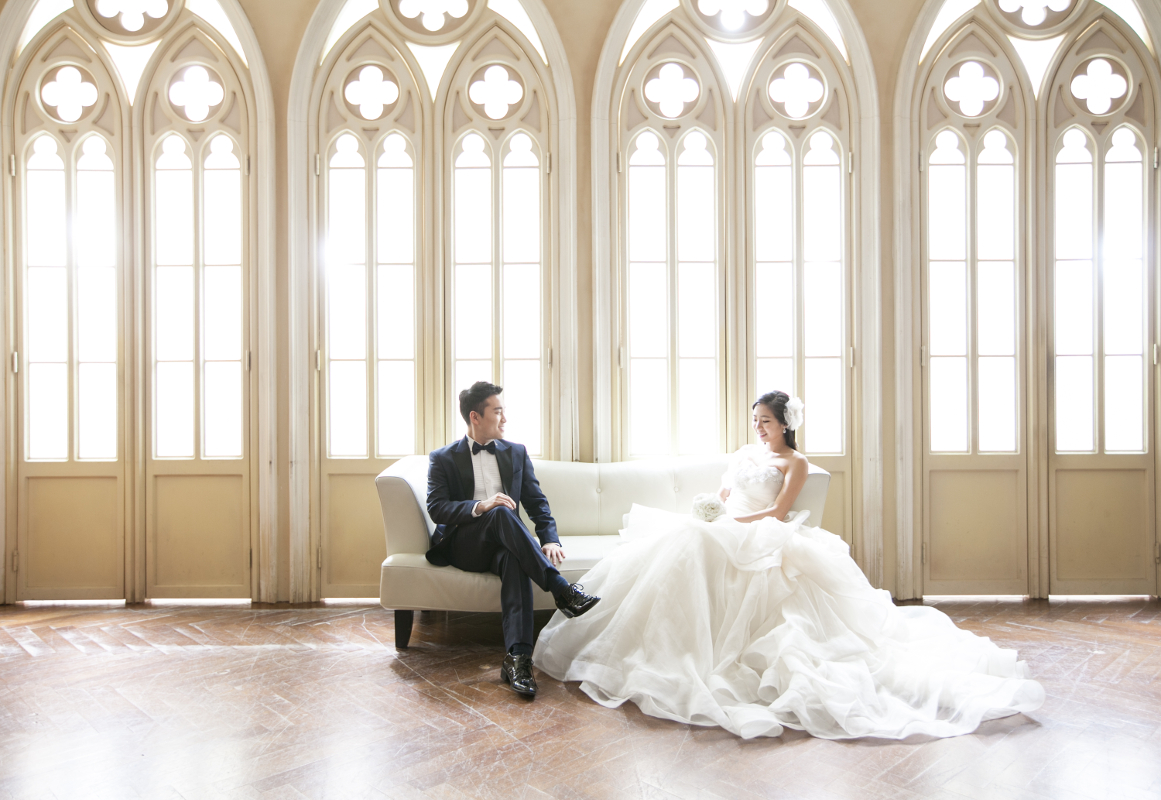
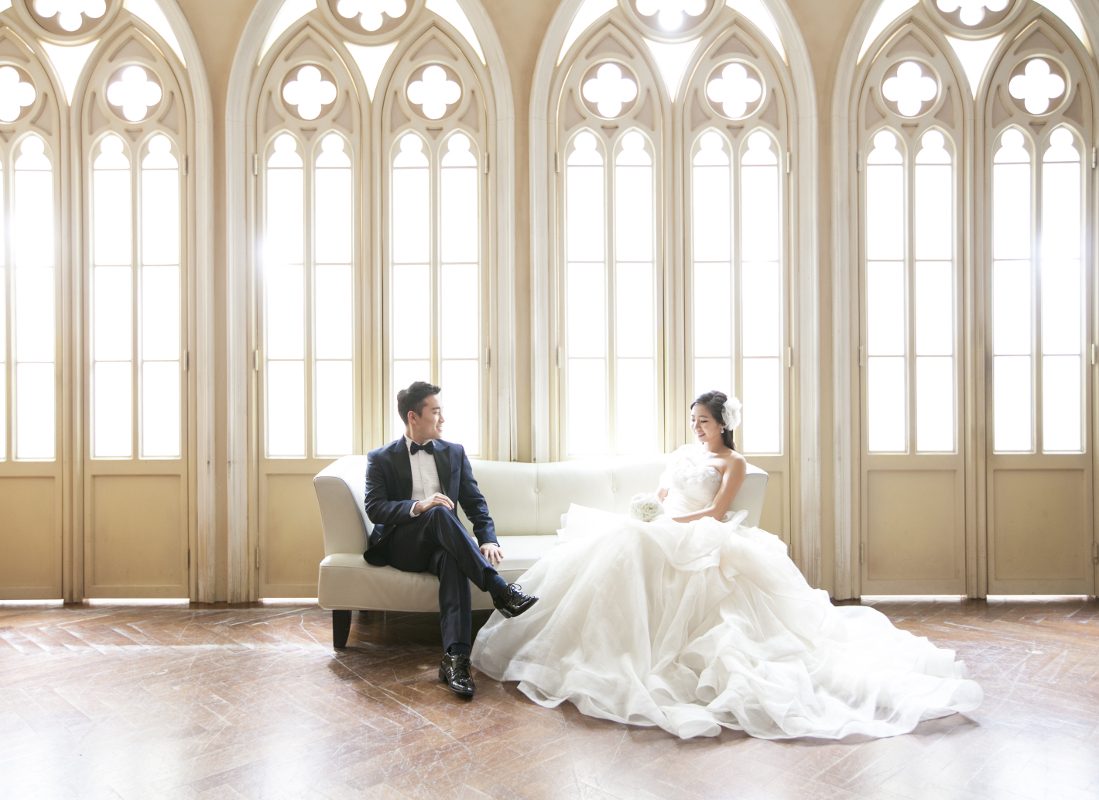
updated background

diff --git a/stylesheets/app.css b/stylesheets/app.css
@@ -33,18 +33,31 @@ body {
   font-size: 20px;
 }
 
-/* line 96, ../scss/_settings.scss */
+/* line 95, ../scss/_settings.scss */
 .parallax-background {
   background: url("/assets/background.jpg") no-repeat center transparent;
   background-size: cover;
+  background-position: center;
   top: 0px;
   z-index: -2;
-  height: 800px;
+  min-height: 800px;
   position: fixed;
   width: 100%;
 }
 
-/* line 107, ../scss/_settings.scss */
+@media (min-width: 600px) {
+  /* line 108, ../scss/_settings.scss */
+  .parallax-background {
+    background: url("/assets/background.jpg") no-repeat center transparent;
+    background-size: cover;
+    top: 0px;
+    z-index: -2;
+    min-height: 800px;
+    position: fixed;
+    width: 100%;
+  }
+}
+/* line 121, ../scss/_settings.scss */
 .nav-arrow {
   font-size: 50px;
   color: #5e5f63;
@@ -53,17 +66,17 @@ body {
   padding-top: 500px;
 }
 
-/* line 115, ../scss/_settings.scss */
+/* line 129, ../scss/_settings.scss */
 .arrow:hover {
   color: #fff;
 }
 
-/* line 119, ../scss/_settings.scss */
+/* line 133, ../scss/_settings.scss */
 .parallax-container {
   height: 100%;
 }
 
-/* line 124, ../scss/_settings.scss */
+/* line 138, ../scss/_settings.scss */
 .parallax-content {
   top: 100%;
   max-width: 100%;
@@ -71,7 +84,7 @@ body {
   font-size: 20px;
 }
 
-/* line 132, ../scss/_settings.scss */
+/* line 146, ../scss/_settings.scss */
 #welcome {
   height: auto;
   min-height: 450px;
@@ -80,13 +93,13 @@ body {
   opacity: .85;
 }
 
-/* line 148, ../scss/_settings.scss */
+/* line 162, ../scss/_settings.scss */
 .welcome-content {
   margin-top: 30px;
   font-family: 'Ek Mukta', sans-serif;
 }
 
-/* line 155, ../scss/_settings.scss */
+/* line 169, ../scss/_settings.scss */
 .section-header {
   font-family: 'EB Garamond', serif;
   text-transform: uppercase;
@@ -95,7 +108,7 @@ body {
   margin-top: 30px;
 }
 
-/* line 164, ../scss/_settings.scss */
+/* line 178, ../scss/_settings.scss */
 .section-subheader {
   font-family: 'EB Garamond', serif;
   text-transform: uppercase;
@@ -104,14 +117,14 @@ body {
   margin-top: 10px;
 }
 
-/* line 173, ../scss/_settings.scss */
+/* line 187, ../scss/_settings.scss */
 .section-content {
   font-family: 'Open Sans', sans-serif;
   font-size: 16px;
   font-weight: 400;
 }
 
-/* line 179, ../scss/_settings.scss */
+/* line 193, ../scss/_settings.scss */
 #story {
   height: auto;
   min-height: 560px;
@@ -120,7 +133,7 @@ body {
   color: #000000;
 }
 
-/* line 188, ../scss/_settings.scss */
+/* line 202, ../scss/_settings.scss */
 #proposal {
   height: auto;
   min-height: 550px;
@@ -128,7 +141,7 @@ body {
   opacity: .95;
 }
 
-/* line 196, ../scss/_settings.scss */
+/* line 210, ../scss/_settings.scss */
 #wedding {
   height: auto;
   min-height: 500px;
@@ -136,22 +149,22 @@ body {
   opacity: .95;
 }
 
-/* line 207, ../scss/_settings.scss */
+/* line 221, ../scss/_settings.scss */
 .lower {
   text-transform: lowercase;
 }
 
-/* line 211, ../scss/_settings.scss */
+/* line 225, ../scss/_settings.scss */
 .pink-banner {
   margin: 15px 0 15px -15px;
 }
 
-/* line 214, ../scss/_settings.scss */
+/* line 228, ../scss/_settings.scss */
 .banner-link-pink:before {
   background: url(/assets/ribbon-before.png) no-repeat;
 }
 
-/* line 217, ../scss/_settings.scss */
+/* line 231, ../scss/_settings.scss */
 .banner-link-pink span {
   height: 31px;
   padding: 5px 2px 0;
@@ -169,12 +182,12 @@ body {
   box-sizing: border-box;
 }
 
-/* line 235, ../scss/_settings.scss */
+/* line 249, ../scss/_settings.scss */
 .banner-link-pink:after {
   background: url(/assets/ribbon-after.png) no-repeat;
 }
 
-/* line 239, ../scss/_settings.scss */
+/* line 253, ../scss/_settings.scss */
 .banner-link-pink:before, .banner-link-pink:after {
   content: '';
   width: 32px;
@@ -183,67 +196,67 @@ body {
   float: left;
 }
 
-/* line 247, ../scss/_settings.scss */
+/* line 261, ../scss/_settings.scss */
 #party {
   height: auto;
   background-color: #FFE9E9;
   opacity: .95;
 }
 
-/* line 256, ../scss/_settings.scss */
+/* line 270, ../scss/_settings.scss */
 .party-title {
   font-size: 24px;
 }
 
-/* line 261, ../scss/_settings.scss */
+/* line 275, ../scss/_settings.scss */
 .party-name {
   font-size: 20px;
   font-weight: 800;
 }
 
-/* line 266, ../scss/_settings.scss */
+/* line 280, ../scss/_settings.scss */
 .party-deets {
   font-size: 14px;
 }
 
-/* line 270, ../scss/_settings.scss */
+/* line 284, ../scss/_settings.scss */
 .orbit-slide-number {
   display: none;
 }
 
-/* line 274, ../scss/_settings.scss */
+/* line 288, ../scss/_settings.scss */
 .orbit-prev {
   display: none;
 }
 
-/* line 278, ../scss/_settings.scss */
+/* line 292, ../scss/_settings.scss */
 .orbit-next {
   display: none;
 }
 
-/* line 282, ../scss/_settings.scss */
+/* line 296, ../scss/_settings.scss */
 .orbit-timer {
   color: #000;
 }
 
-/* line 291, ../scss/_settings.scss */
+/* line 305, ../scss/_settings.scss */
 #registry {
   height: auto;
   min-height: 400px;
   background-color: #ffffff;
 }
 
-/* line 300, ../scss/_settings.scss */
+/* line 314, ../scss/_settings.scss */
 .indent-left {
   padding-left: 30px;
 }
 
-/* line 304, ../scss/_settings.scss */
+/* line 318, ../scss/_settings.scss */
 #paypal-logo:hover {
   opacity: .7;
 }
 
-/* line 308, ../scss/_settings.scss */
+/* line 322, ../scss/_settings.scss */
 #rsvp {
   height: auto;
   min-height: 200px;
@@ -251,14 +264,14 @@ body {
   background-color: #000000;
 }
 
-/* line 315, ../scss/_settings.scss */
+/* line 329, ../scss/_settings.scss */
 #countdown {
   color: #fff;
   font-family: 'Open Sans', sans-serif;
   font-size: 18px;
 }
 
-/* line 321, ../scss/_settings.scss */
+/* line 335, ../scss/_settings.scss */
 #foot {
   font-family: 'Open Sans', sans-serif;
   font-size: 16px;
@@ -268,7 +281,7 @@ body {
   padding-bottom: 20px;
 }
 
-/* line 330, ../scss/_settings.scss */
+/* line 344, ../scss/_settings.scss */
 .foo {
   color: #ffffff;
 }

diff --git a/scss/_settings.scss b/scss/_settings.scss
@@ -92,17 +92,31 @@ body {
   font-weight: 200;
   font-size: 20px;
 }
-
 .parallax-background {
   background: url("/assets/background.jpg") no-repeat center transparent;
   background-size: cover;
+  background-position: center; 
   top: 0px;
   z-index: -2;
   // opacity: .2;
-  height: 800px;
+  min-height: 800px;
   position: fixed;
   width: 100%;
 }
+
+@media (min-width: 600px) {
+  .parallax-background {
+    background: url("/assets/background.jpg") no-repeat center transparent;
+    background-size: cover;
+    top: 0px;
+    z-index: -2;
+    // opacity: .2;
+    min-height: 800px;
+    position: fixed;
+    width: 100%;
+  }
+}
+
 
 .nav-arrow {
   font-size: 50px;
